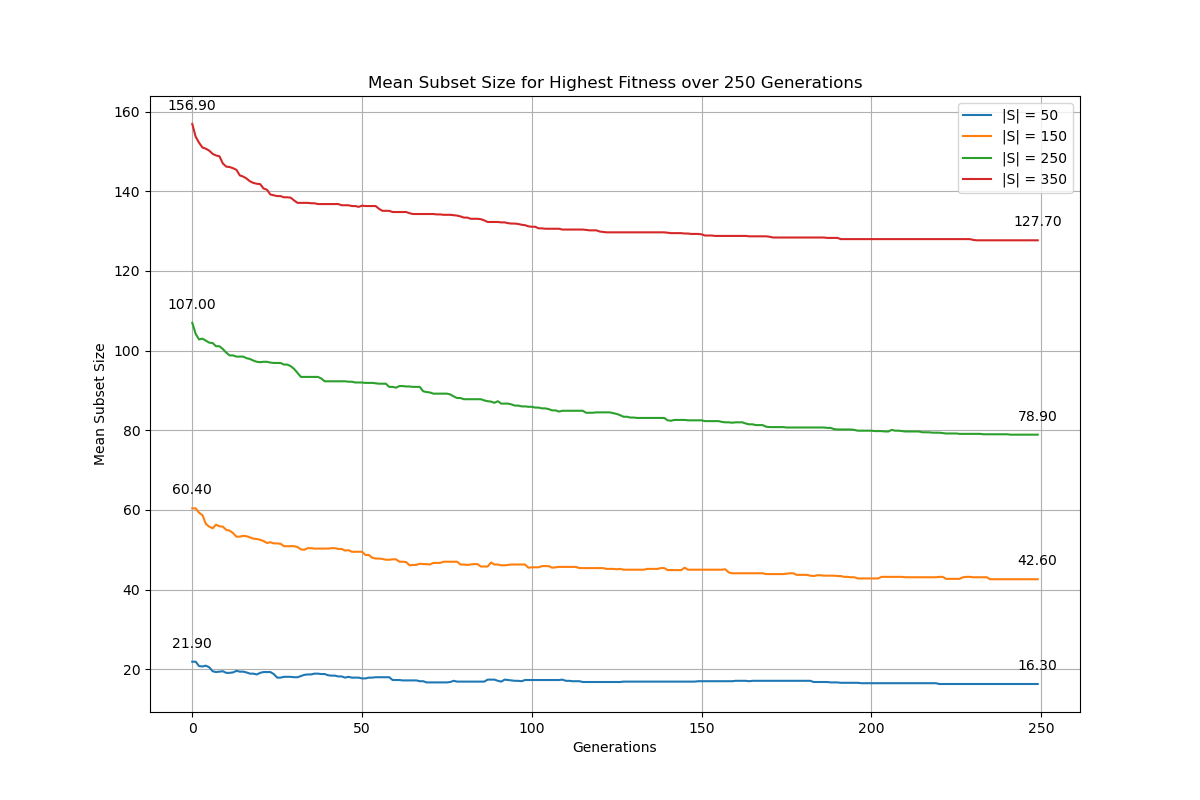
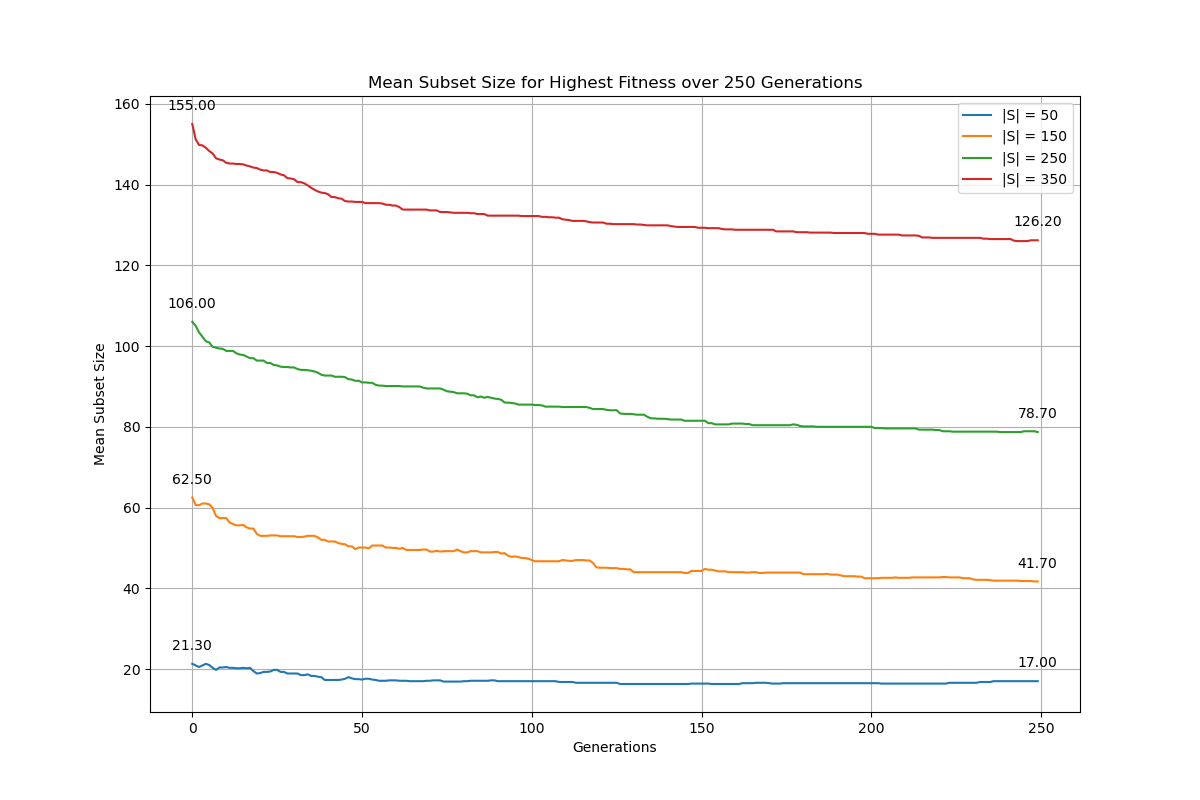
each instance taking 45 second

diff --git a/ROLLXYZ_FIRSTNAME.py b/ROLLXYZ_FIRSTNAME.py
@@ -202,7 +202,7 @@ def main():
         scp = SetCoveringProblemCreator()
         subsets = scp.Create(usize=100, totalSets=size)
         
-        best_solution, best_fitness_over_time, mean_subset_size_over_time = genetic_algorithm(subsets, population_size=50, generations=50, start_time=start_time)
+        best_solution, best_fitness_over_time, mean_subset_size_over_time = genetic_algorithm(subsets, population_size=50, generations=1000000, start_time=start_time)
         
         print(f"Number of sets: {len(best_solution)}")
         print("Solution:", end=" ")
@@ -221,7 +221,7 @@ def main():
         plt.grid(True)
         plt.legend()
         plt.savefig(f'plots/best_fitness_over_time_{size}.png')
-        plt.show()
+        
         
         plt.figure(figsize=(10, 6))
         plt.plot(mean_subset_size_over_time, label='Mean Subset Size Over Time')
@@ -231,7 +231,7 @@ def main():
         plt.grid(True)
         plt.legend()
         plt.savefig(f'plots/mean_subset_size_over_time_{size}.png')
-        plt.show()
+        
 
     elif option == "2":
         generations = 250
